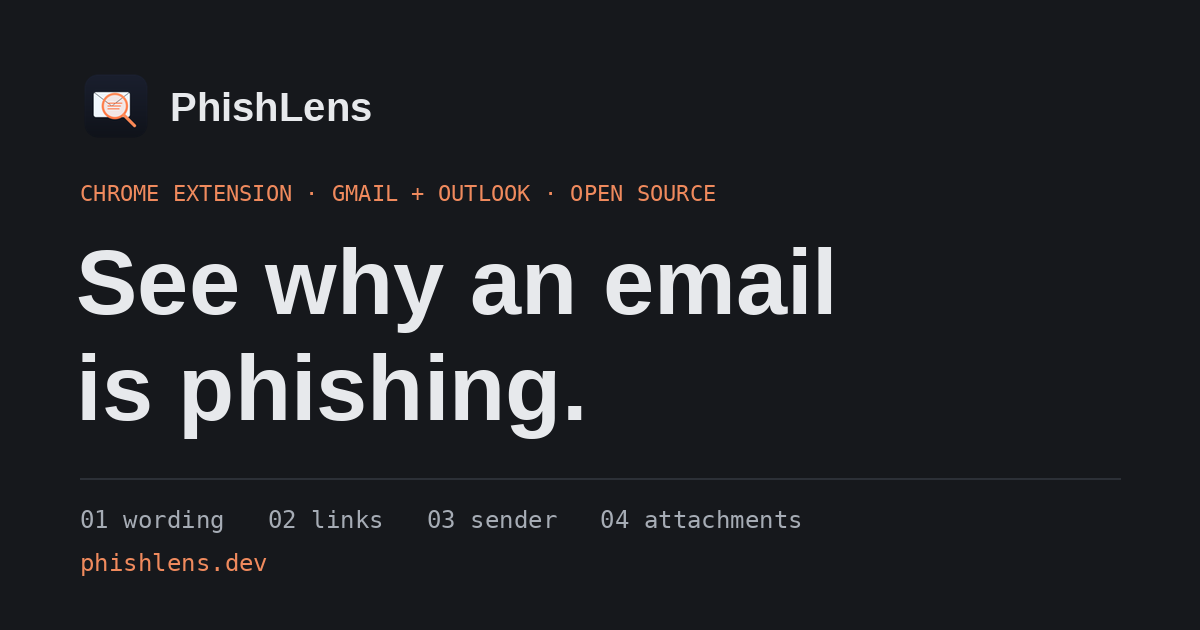
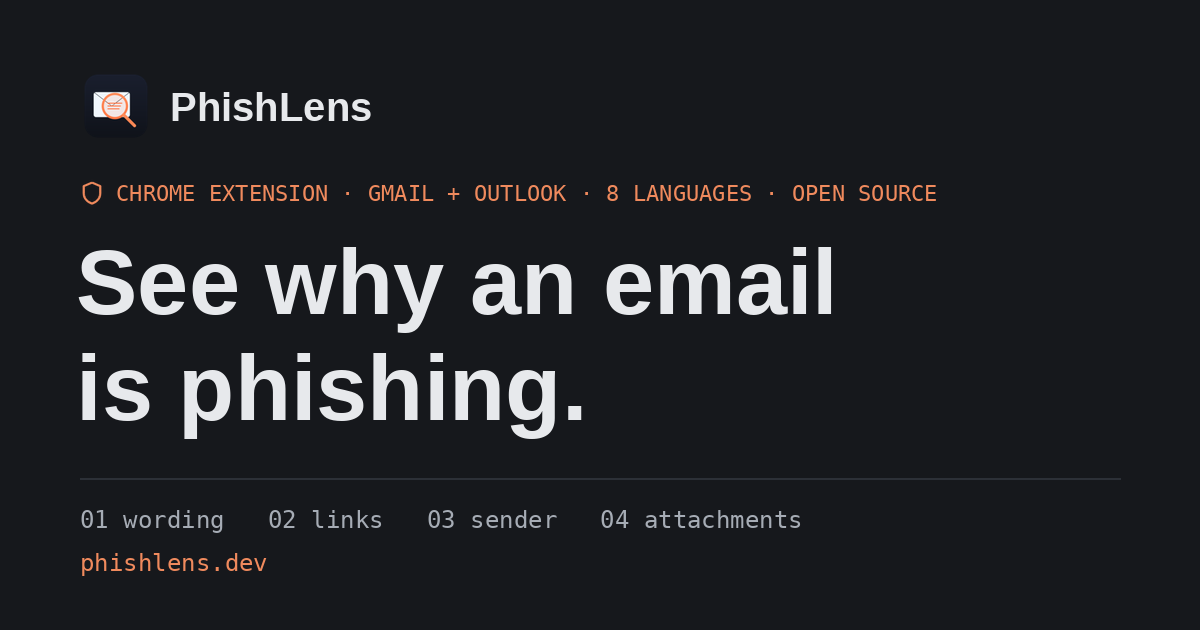
fix(site): social preview image matches the website tagline

Changed region(s): [[0.0617, 0.2714, 0.7708, 0.3317]]

diff --git a/site/es/index.html b/site/es/index.html
@@ -22,7 +22,7 @@
 <meta property="og:title" content="PhishLens: descubra por qué un correo es phishing">
 <meta property="og:description" content="Extensión de código abierto para Chrome en Gmail y Outlook: un veredicto sobre cada correo, una puntuación por comprobación y las palabras y señales que lo explican.">
 <meta property="og:url" content="https://phishlens.dev/es/">
-<meta property="og:image" content="https://phishlens.dev/img/og.png?v=4e26519e1a">
+<meta property="og:image" content="https://phishlens.dev/img/og.png?v=aed1371207">
 <meta property="og:image:width" content="1200">
 <meta property="og:image:height" content="630">
 <meta property="og:image:alt" content="PhishLens: descubra por qué un correo es phishing. Gmail y Outlook.">

diff --git a/site/fr/index.html b/site/fr/index.html
@@ -22,7 +22,7 @@
 <meta property="og:title" content="PhishLens : voyez pourquoi un e-mail est du phishing">
 <meta property="og:description" content="Extension Chrome open source pour Gmail et Outlook : un verdict au-dessus de chaque e-mail, un score par vérification, et les mots et signaux qui l'expliquent.">
 <meta property="og:url" content="https://phishlens.dev/fr/">
-<meta property="og:image" content="https://phishlens.dev/img/og.png?v=4e26519e1a">
+<meta property="og:image" content="https://phishlens.dev/img/og.png?v=aed1371207">
 <meta property="og:image:width" content="1200">
 <meta property="og:image:height" content="630">
 <meta property="og:image:alt" content="PhishLens : voyez pourquoi un e-mail est du phishing. Gmail et Outlook.">

diff --git a/site/pt/index.html b/site/pt/index.html
@@ -22,7 +22,7 @@
 <meta property="og:title" content="PhishLens: veja porque um e-mail é phishing">
 <meta property="og:description" content="Extensão de código aberto para o Chrome, no Gmail e no Outlook: um veredito sobre cada e-mail, uma pontuação por verificação e as palavras e sinais que o explicam.">
 <meta property="og:url" content="https://phishlens.dev/pt/">
-<meta property="og:image" content="https://phishlens.dev/img/og.png?v=4e26519e1a">
+<meta property="og:image" content="https://phishlens.dev/img/og.png?v=aed1371207">
 <meta property="og:image:width" content="1200">
 <meta property="og:image:height" content="630">
 <meta property="og:image:alt" content="PhishLens: veja porque um e-mail é phishing. Gmail e Outlook.">

diff --git a/site/ha/index.html b/site/ha/index.html
@@ -22,7 +22,7 @@
 <meta property="og:title" content="PhishLens: ga dalilin da yasa imel yake phishing">
 <meta property="og:description" content="Ƙarin Chrome mai buɗaɗɗen tushe don Gmail da Outlook: hukunci a saman kowane imel, maki ɗaya ga kowane bincike, da kalmomi da alamun da ke bayan sa.">
 <meta property="og:url" content="https://phishlens.dev/ha/">
-<meta property="og:image" content="https://phishlens.dev/img/og.png?v=4e26519e1a">
+<meta property="og:image" content="https://phishlens.dev/img/og.png?v=aed1371207">
 <meta property="og:image:width" content="1200">
 <meta property="og:image:height" content="630">
 <meta property="og:image:alt" content="PhishLens: ga dalilin da yasa imel yake phishing. Gmail da Outlook.">

diff --git a/site/de/index.html b/site/de/index.html
@@ -22,7 +22,7 @@
 <meta property="og:title" content="PhishLens: sehen, warum eine E-Mail Phishing ist">
 <meta property="og:description" content="Quelloffene Chrome-Erweiterung für Gmail und Outlook: ein Urteil über jeder E-Mail, ein Wert pro Prüfung und die Wörter und Signale dahinter.">
 <meta property="og:url" content="https://phishlens.dev/de/">
-<meta property="og:image" content="https://phishlens.dev/img/og.png?v=4e26519e1a">
+<meta property="og:image" content="https://phishlens.dev/img/og.png?v=aed1371207">
 <meta property="og:image:width" content="1200">
 <meta property="og:image:height" content="630">
 <meta property="og:image:alt" content="PhishLens: sehen, warum eine E-Mail Phishing ist. Gmail und Outlook.">

diff --git a/site/it/index.html b/site/it/index.html
@@ -22,7 +22,7 @@
 <meta property="og:title" content="PhishLens: scopri perché un'email è phishing">
 <meta property="og:description" content="Estensione open source per Chrome in Gmail e Outlook: un verdetto sopra ogni email, un punteggio per controllo e le parole e i segnali che lo spiegano.">
 <meta property="og:url" content="https://phishlens.dev/it/">
-<meta property="og:image" content="https://phishlens.dev/img/og.png?v=4e26519e1a">
+<meta property="og:image" content="https://phishlens.dev/img/og.png?v=aed1371207">
 <meta property="og:image:width" content="1200">
 <meta property="og:image:height" content="630">
 <meta property="og:image:alt" content="PhishLens: scopri perché un'email è phishing. Gmail e Outlook.">

diff --git a/site/nl/index.html b/site/nl/index.html
@@ -22,7 +22,7 @@
 <meta property="og:title" content="PhishLens: zie waarom een e-mail phishing is">
 <meta property="og:description" content="Opensource Chrome-extensie voor Gmail en Outlook: een oordeel boven elke e-mail, een score per controle en de woorden en signalen erachter.">
 <meta property="og:url" content="https://phishlens.dev/nl/">
-<meta property="og:image" content="https://phishlens.dev/img/og.png?v=4e26519e1a">
+<meta property="og:image" content="https://phishlens.dev/img/og.png?v=aed1371207">
 <meta property="og:image:width" content="1200">
 <meta property="og:image:height" content="630">
 <meta property="og:image:alt" content="PhishLens: zie waarom een e-mail phishing is. Gmail en Outlook.">

diff --git a/site/fr/privacy.html b/site/fr/privacy.html
@@ -22,7 +22,7 @@
 <meta property="og:title" content="Politique de confidentialité · PhishLens">
 <meta property="og:description" content="Ce que l'extension PhishLens, le site et PhishLens Cloud traitent, où ces données vont et ce qui est conservé.">
 <meta property="og:url" content="https://phishlens.dev/fr/privacy.html">
-<meta property="og:image" content="https://phishlens.dev/img/og.png?v=4e26519e1a">
+<meta property="og:image" content="https://phishlens.dev/img/og.png?v=aed1371207">
 <meta property="og:image:width" content="1200">
 <meta property="og:image:height" content="630">
 <meta property="og:image:alt" content="PhishLens : voyez pourquoi un e-mail est du phishing. Gmail et Outlook.">

diff --git a/site/index.html b/site/index.html
@@ -22,7 +22,7 @@
 <meta property="og:title" content="PhishLens: see why an email is phishing">
 <meta property="og:description" content="Open-source Chrome extension for Gmail and Outlook: a verdict above every email, one score per check, and the words and signals behind it.">
 <meta property="og:url" content="https://phishlens.dev/">
-<meta property="og:image" content="https://phishlens.dev/img/og.png?v=4e26519e1a">
+<meta property="og:image" content="https://phishlens.dev/img/og.png?v=aed1371207">
 <meta property="og:image:width" content="1200">
 <meta property="og:image:height" content="630">
 <meta property="og:image:alt" content="PhishLens: see why an email is phishing. Gmail and Outlook.">

diff --git a/site/de/privacy.html b/site/de/privacy.html
@@ -22,7 +22,7 @@
 <meta property="og:title" content="Datenschutzerklärung · PhishLens">
 <meta property="og:description" content="Was die PhishLens-Erweiterung, die Website und PhishLens Cloud verarbeiten, wohin es geht und was gespeichert wird.">
 <meta property="og:url" content="https://phishlens.dev/de/privacy.html">
-<meta property="og:image" content="https://phishlens.dev/img/og.png?v=4e26519e1a">
+<meta property="og:image" content="https://phishlens.dev/img/og.png?v=aed1371207">
 <meta property="og:image:width" content="1200">
 <meta property="og:image:height" content="630">
 <meta property="og:image:alt" content="PhishLens: sehen, warum eine E-Mail Phishing ist. Gmail und Outlook.">

diff --git a/site/ha/privacy.html b/site/ha/privacy.html
@@ -22,7 +22,7 @@
 <meta property="og:title" content="Manufar sirri · PhishLens">
 <meta property="og:description" content="Abin da ƙarin PhishLens, shafin yanar gizo da PhishLens Cloud ke sarrafawa, inda yake zuwa da abin da ake ajiyewa.">
 <meta property="og:url" content="https://phishlens.dev/ha/privacy.html">
-<meta property="og:image" content="https://phishlens.dev/img/og.png?v=4e26519e1a">
+<meta property="og:image" content="https://phishlens.dev/img/og.png?v=aed1371207">
 <meta property="og:image:width" content="1200">
 <meta property="og:image:height" content="630">
 <meta property="og:image:alt" content="PhishLens: ga dalilin da yasa imel yake phishing. Gmail da Outlook.">

diff --git a/site/nl/privacy.html b/site/nl/privacy.html
@@ -22,7 +22,7 @@
 <meta property="og:title" content="Privacybeleid · PhishLens">
 <meta property="og:description" content="Wat de PhishLens-extensie, de website en PhishLens Cloud verwerken, waar het naartoe gaat en wat bewaard wordt.">
 <meta property="og:url" content="https://phishlens.dev/nl/privacy.html">
-<meta property="og:image" content="https://phishlens.dev/img/og.png?v=4e26519e1a">
+<meta property="og:image" content="https://phishlens.dev/img/og.png?v=aed1371207">
 <meta property="og:image:width" content="1200">
 <meta property="og:image:height" content="630">
 <meta property="og:image:alt" content="PhishLens: zie waarom een e-mail phishing is. Gmail en Outlook.">
